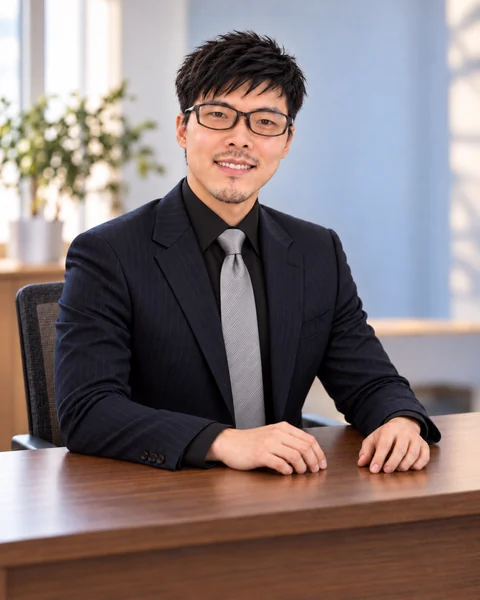
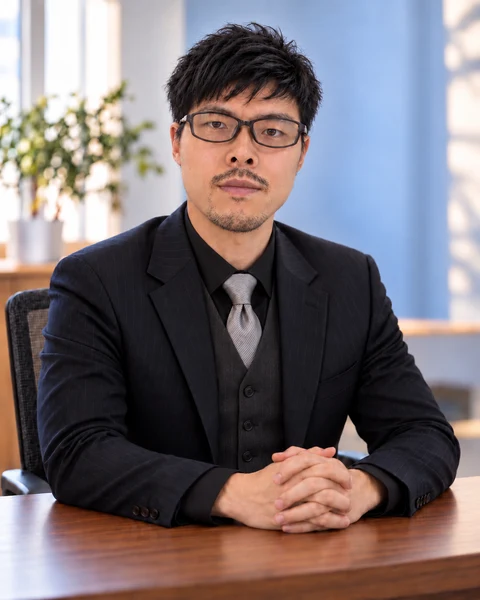
Replace and show the selected v5 representative portrait
Use the user-selected charcoal waistcoat portrait for both existing responsive WebP assets, and remove only the temporary visibility:hidden rule. Preserve all HTML, alt text, intrinsic dimensions, message copy, SEO metadata, navigation, and other site assets.

Verified the selected PNG SHA-256 and image pixels, both WebP dimensions/decoding and blob hashes, all HTML references, and an exactly three-file tree delta. Local browser QA was blocked by the execution environment; production browser verification follows deployment.

Authoring-source handoff: mirror these two asset replacements and the CSS visibility restoration into the private source workspace before its next build. Do not restore the old portrait or hidden state from stale source.

diff --git a/assets/photo-layout-v10.css b/assets/photo-layout-v10.css
@@ -24,8 +24,7 @@
 .office-intro__note { margin-top: 20px; font-size: 11px; color: var(--muted); }
 .representative-message { display: grid; grid-template-columns: minmax(0,360px) minmax(0,1fr); gap: 48px; align-items: start; }
 .representative-message > * { min-width: 0; }
-/* Temporarily hide the representative photo without changing the layout. */
-.representative-message__photo { margin: 0; visibility: hidden; }
+.representative-message__photo { margin: 0; }
 .representative-message__photo img { display: block; width: 100%; height: auto; border-radius: 2px; }
 .representative-message .message { max-width: none; }
 .representative-message .message > p:first-child { margin-top: 0; color: var(--text); }
